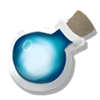
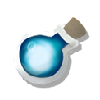
minor updates

diff --git a/src/main/java/spireQuests/questStats/StatRewardBox.java b/src/main/java/spireQuests/questStats/StatRewardBox.java
@@ -26,13 +26,15 @@ import spireQuests.util.TexLoader;
 
 public class StatRewardBox {
     private static final Texture CUSTOM_REWARD_IMG = ImageMaster.loadImage("images/ui/run_mods/shiny.png");
-    private static final Texture BOX_OUTLINE = TexLoader.getTexture(makeUIPath("stats/reward_frame.png"));
+    private static final Texture FRAME = TexLoader.getTexture(makeUIPath("stats/reward_frame.png"));
+    private static final Texture FRAME_HOVER = TexLoader.getTexture(makeUIPath("stats/reward_frame_hover.png"));
     private static final Texture CARD_TEX = TexLoader.getTexture(makeUIPath("stats/card.png"));
     private static final Texture POTION_TEX = TexLoader.getTexture(makeUIPath("stats/potion.png"));
     private static final Texture RANDOM_RELIC_TEX = TexLoader.getTexture(makeUIPath("stats/relic.png"));
     private static final Texture GOLD_TEX = TexLoader.getTexture(makeUIPath("stats/gold.png"));
 
-    private static final float BOX_SIDE = 125.0F;
+    public static final float FRAME_X = 125.0F * Settings.xScale;
+    public static final float FRAME_Y = 125.0F * Settings.yScale;
     public static float HEIGHT = 100.0F * Settings.yScale;
     public static float WIDTH = 100.0F * Settings.xScale;
     public Hitbox hb;
@@ -86,12 +88,17 @@ public class StatRewardBox {
     public StatRewardBox(float xPos, float yPos) {
         this.xPos = xPos;
         this.yPos = yPos;
-        this.hb = new Hitbox(xPos, yPos, WIDTH, HEIGHT);
+        this.hb = new Hitbox(xPos, yPos, FRAME_X, FRAME_Y);
     }
 
     public void render(SpriteBatch sb) {
-        sb.draw(BOX_OUTLINE, xPos, yPos, BOX_SIDE, BOX_SIDE);
-        sb.draw(this.img, xPos, yPos, WIDTH, HEIGHT);
+        if (this.hb.hovered) {
+            sb.draw(FRAME_HOVER, xPos, yPos, FRAME_X, FRAME_Y);            
+        } else {
+            sb.draw(FRAME, xPos, yPos, FRAME_X, FRAME_Y);
+        }
+
+        sb.draw(this.img, xPos + (FRAME_X - WIDTH) / 2, yPos + (FRAME_Y - HEIGHT) / 2, WIDTH, HEIGHT);
         if (this.hb.hovered) {
             if (card != null) {
                 card.current_x = InputHelper.mX + (AbstractCard.RAW_W * card.drawScale) * Settings.scale;
@@ -105,8 +112,12 @@ public class StatRewardBox {
 
     public void update() {
         this.hb.update();
-        if (card != null && this.hb.hovered && InputHelper.justClickedRight) {
-            CardCrawlGame.cardPopup.open(card);
+        if (this.hb.hovered && InputHelper.justClickedRight) {
+            if (card != null) {
+                CardCrawlGame.cardPopup.open(card);
+            } else if (relic != null) {
+                CardCrawlGame.relicPopup.open(relic);
+            }
         }
     }
 }
